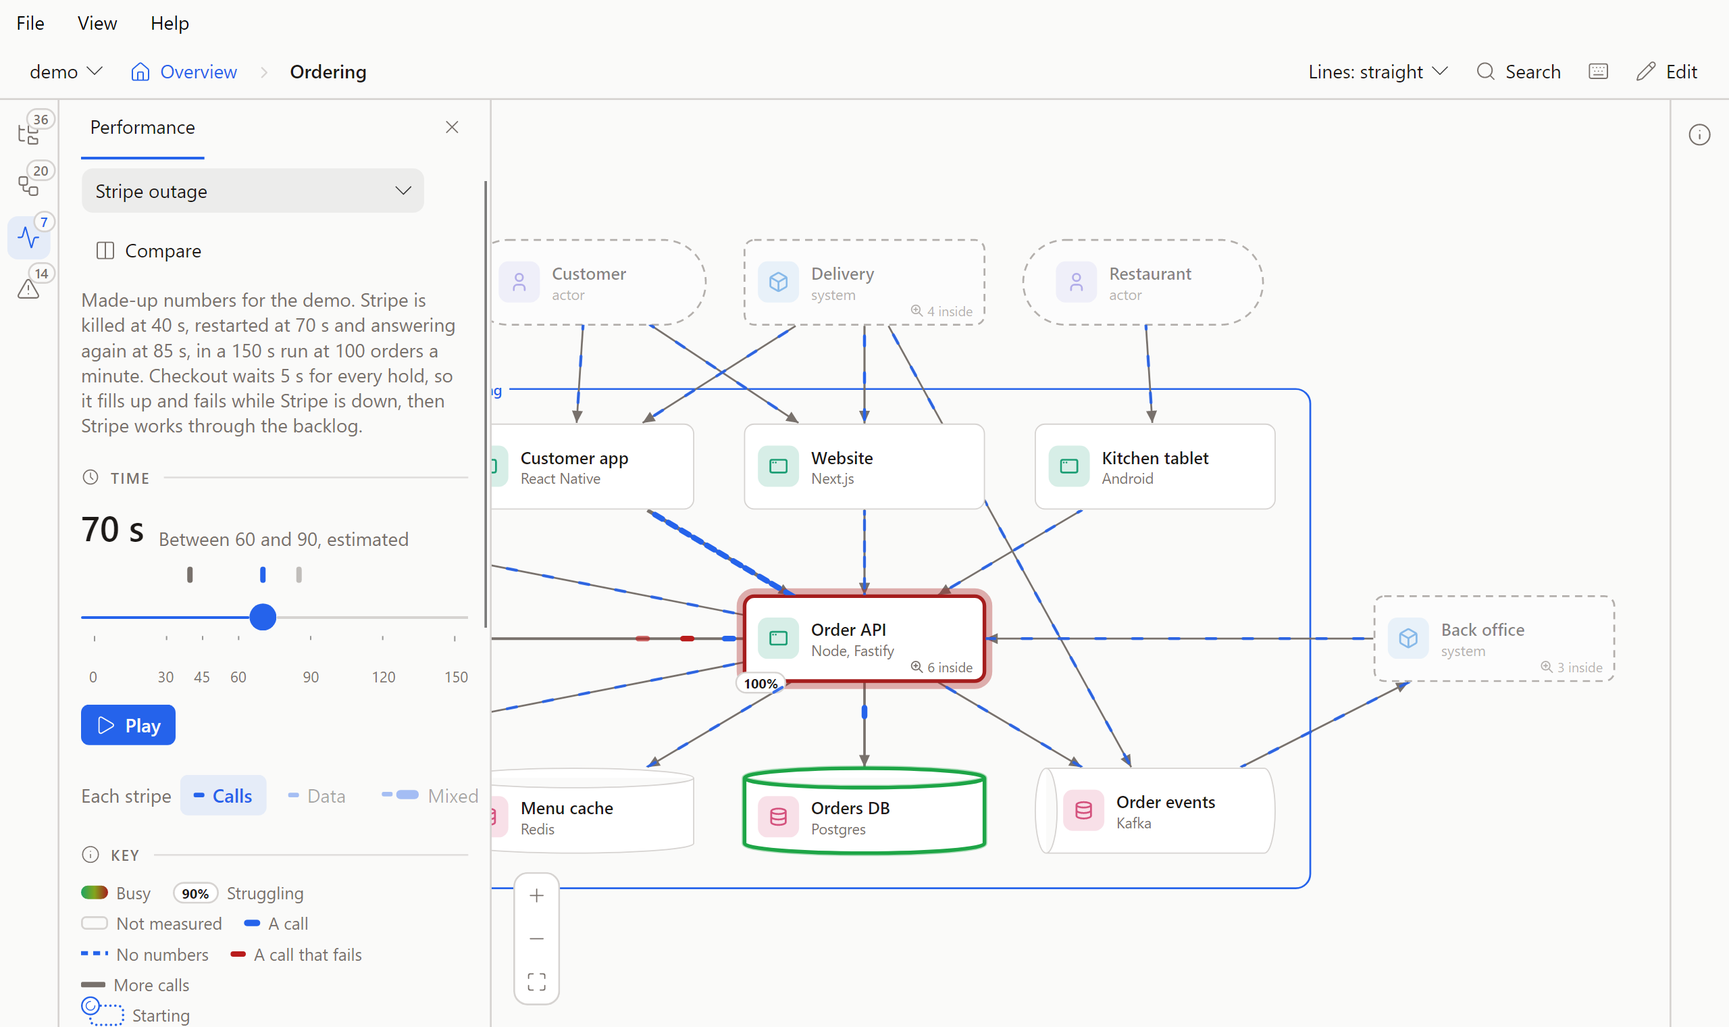
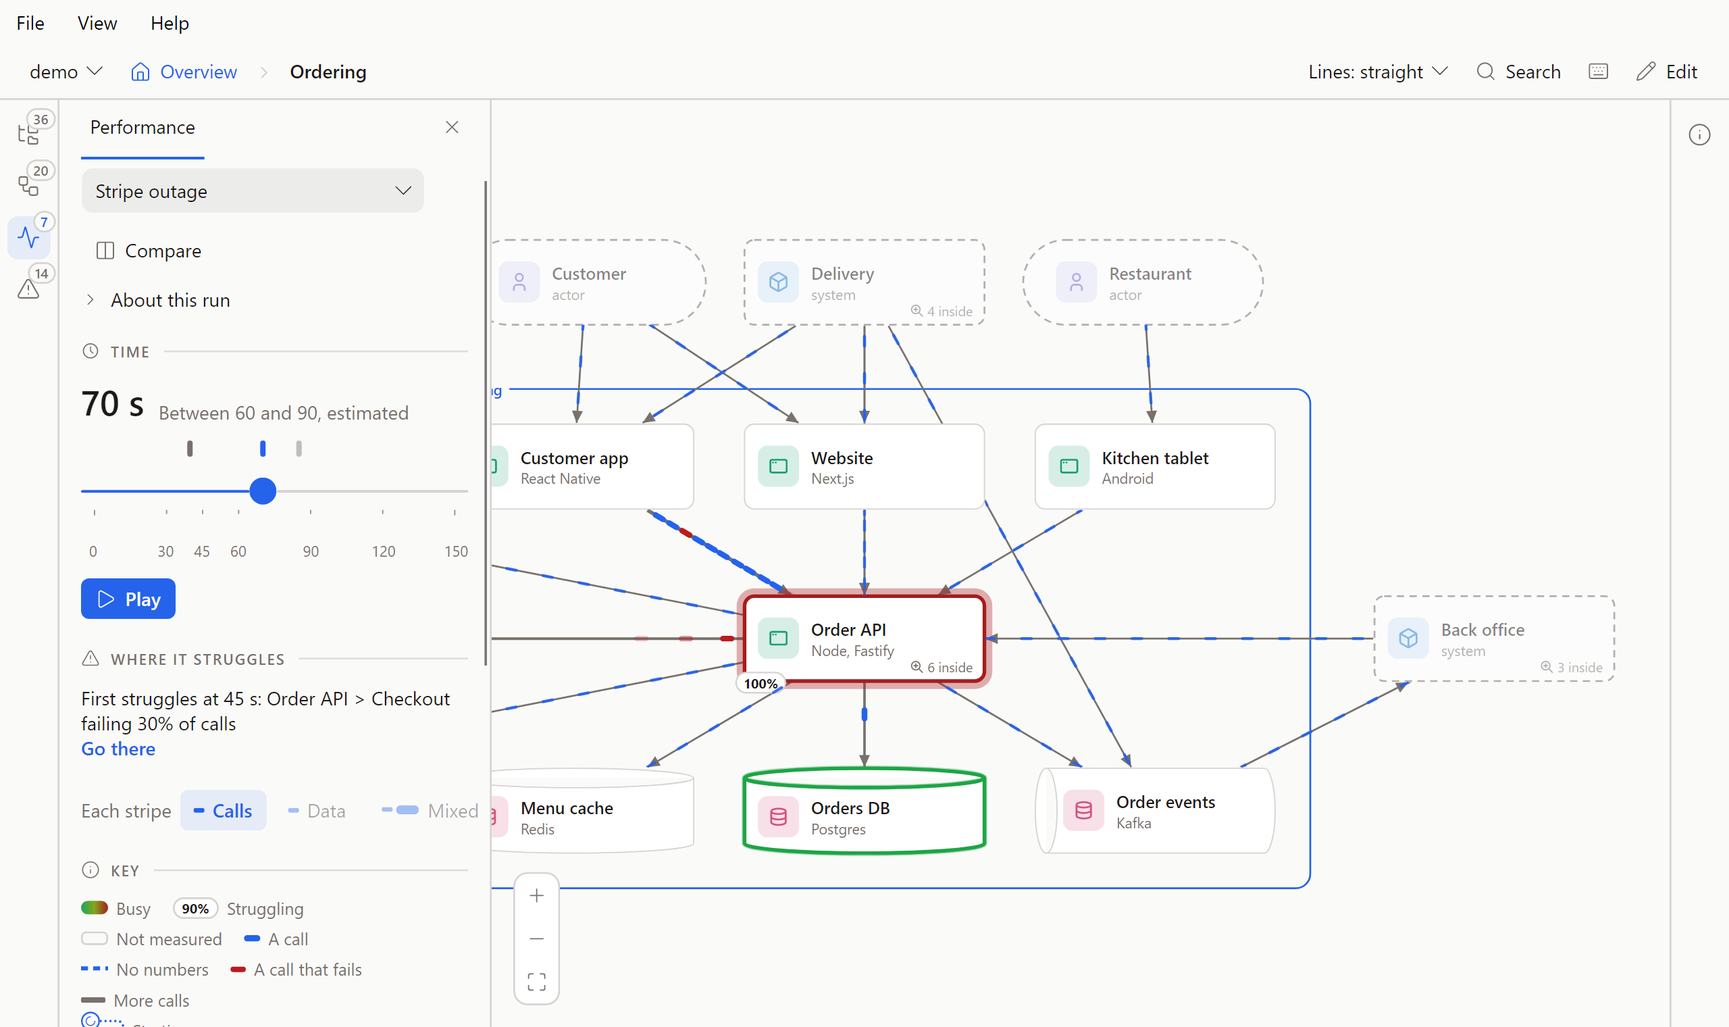
fix(perf): the first-struggles sentence stays in view: load, sentence, Each stripe, key, then the chart
Both readers order the tab as run and About, Load, Where it struggles (sentence and Go there), Each stripe, Key, chart, Events, Selected. A run's About note folds under About this run over 200 characters, and each source's Ramp sits on its name row. Tests, docs and the three desktop pictures follow.

diff --git a/ui/src/Performance.tsx b/ui/src/Performance.tsx
@@ -17,7 +17,7 @@ import { Dropdown } from './Dropdown.tsx'
 import { Activity, Alert, Bolt, ChevronRight, Clock, Columns, Info, Link, Pause, Play, Plus } from './icons.tsx'
 import { linkedRuns } from './compare.ts'
 import {
-  ABOUT_FOLDS_OVER, activeSeries, boxAt, boxAtLevel, boxMarks, boxSeries, boxSeriesIn, BOX_KEYS, bracketOf, chartRow, chartSubject, cursorX, dialTicks, dialTop, floorOf, eventFractions, eventRows, failureMarks, lineMarks, fmtLoad, gridOf, heldText, isTested, isTime, levelLabels, levelX,
+  RUN_ABOUT_FOLDS_OVER, activeSeries, boxAt, boxAtLevel, boxMarks, boxSeries, boxSeriesIn, BOX_KEYS, bracketOf, chartRow, chartSubject, cursorX, dialTicks, dialTop, floorOf, eventFractions, eventRows, failureMarks, lineMarks, fmtLoad, gridOf, heldText, isTested, isTime, levelLabels, levelX,
   lineAt, lineAtLevel, lineSeries, lineSeriesIn, LINE_KEYS, loadAt, loadNote, METRICS, modeLabel, openingPositions, overText, pathOf, posAt, scaleOf, settingOf, slideDial, slidePos, sliderRange, sliderValue, sourceCss, speakLoad, tickLabels, top, xAt,
 } from './perfview.ts'
 import type { Area } from './perfview.ts'
@@ -348,7 +348,7 @@ export function PerfBody({ model, view, runs, runProblems, runId, positions, act
         ? <Dropdown label="Run" value={runId} options={ids.map(id => [id, `${runs[id].name}${linked.has(id) ? ' (Linked)' : ''}`])} onChange={onRun} />
         : <h2>{run.name}</h2>}
       {compare && <RunActions compare={compare} linked={linked.has(runId)} />}
-      {run.about && (run.about.length > ABOUT_FOLDS_OVER
+      {run.about && (run.about.length > RUN_ABOUT_FOLDS_OVER
         ? <details className="about"><summary><ChevronRight size={14} />About this run</summary><p>{run.about}</p></details>
         : <p className="about">{run.about}</p>)}
       {label !== undefined && <p className="modelabel">{label}</p>}
@@ -363,11 +363,13 @@ export function PerfBody({ model, view, runs, runProblems, runId, positions, act
             const running = ramping && here
             return (
               <div key={d.id} className={here ? 'dial active' : 'dial'} style={srcStyle(d.color)}>
-                <div className="dialname"><span className="sw call" aria-hidden="true" /><span>{d.name}</span></div>
+                <div className="dialname">
+                  <span className="sw call" aria-hidden="true" /><span>{d.name}</span>
+                  {!still && <button className="primary small" aria-pressed={running} aria-label={`${running ? 'Pause' : 'Ramp'} ${d.name}`} onClick={() => onRamp(i)}>{running ? <><Pause size={16} />Pause</> : <><Play size={16} />Ramp</>}</button>}
+                </div>
                 <div className="loadnum">
                   <strong>{fmtLoad(dialLoad, d.unit)}</strong>
                   <span className="muted">{tested ? 'Tested' : `Between ${from} and ${to}, estimated`}</span>
-                  {!still && <button className="primary small" aria-pressed={running} aria-label={`${running ? 'Pause' : 'Ramp'} ${d.name}`} onClick={() => onRamp(i)}>{running ? <><Pause size={16} />Pause</> : <><Play size={16} />Ramp</>}</button>}
                 </div>
                 <div className="slide">
                   <RangeSlider min={floorOf(d)} max={dialTop(d)} value={at} label={d.name} text={speakLoad(fmtLoad(dialLoad, d.unit), tested ? 'Tested' : `Between ${from} and ${to}, estimated`)} onTouch={() => onActive(i)} onMove={v => onSlide(i, slideDial(d, v))} />
@@ -401,6 +403,11 @@ export function PerfBody({ model, view, runs, runProblems, runId, positions, act
             </div>
           </>
         )}
+      <Section icon={Alert} title="Where it struggles" />
+      {struggle
+        ? <p>{kneeTextOf(runs, runId, struggle, place)} <button className="link" title={goText(runs, runId, struggle)} aria-label={goText(runs, runId, struggle)} onClick={() => onPlace(openingPositions(dials, struggle))}>Go there</button></p>
+        : <p className="muted">It never struggled in the tested range.</p>}
+
       {onMeasure && (
         <div className="measure" role="group" aria-label="Each stripe">
           <span className="muted" aria-hidden="true">Each stripe</span>
@@ -411,6 +418,10 @@ export function PerfBody({ model, view, runs, runProblems, runId, positions, act
       )}
 
       {keySection}
+
+      {multi ? <Along dials={dials} positions={positions} active={dial} /> : null}
+      {multi ? <StripAlong levels={along!} dial={dials[dial]} pos={positions[dial] ?? 0} subject={subject} /> : <Strip run={run} pos={pos} kneeAt={struggle?.index} subject={subject} />}
+
 
       {rows.length > 0 && !multi && (
         <>
@@ -428,13 +439,6 @@ export function PerfBody({ model, view, runs, runProblems, runId, positions, act
           </ul>
         </>
       )}
-
-      <Section icon={Alert} title="Where it struggles" />
-      {struggle
-        ? <p>{kneeTextOf(runs, runId, struggle, place)} <button className="link" title={goText(runs, runId, struggle)} aria-label={goText(runs, runId, struggle)} onClick={() => onPlace(openingPositions(dials, struggle))}>Go there</button></p>
-        : <p className="muted">It never struggled in the tested range.</p>}
-      {multi ? <Along dials={dials} positions={positions} active={dial} /> : null}
-      {multi ? <StripAlong levels={along!} dial={dials[dial]} pos={positions[dial] ?? 0} subject={subject} /> : <Strip run={run} pos={pos} kneeAt={struggle?.index} subject={subject} />}
 
       <Section icon={Info} title={selected ? selected.title : 'Selected'} />
       {selected === undefined && <p className="muted">Click a shape or a line.</p>}

diff --git a/ui/src/style.css b/ui/src/style.css
@@ -934,11 +934,11 @@ kbd { padding: 1px 6px; border: 1px solid var(--line); border-bottom-width: 2px;
 .perf .modelabel { align-self: flex-start; padding: 2px 10px; border: 1px solid var(--line); border-radius: 999px; color: var(--muted); font-size: 12.5px; }
 .dial { display: flex; flex-direction: column; gap: 6px; padding: 8px 10px 4px 12px; border-left: 3px solid transparent; border-radius: 4px; }
 .dial.active { border-left-color: var(--src, var(--accent)); background: color-mix(in srgb, var(--fg) 4%, transparent); }
-.dial.active .muted { color: color-mix(in srgb, var(--muted) 82%, var(--fg)); } /* on the tint, the plain muted grey falls just under 4.5 to 1 */
+.dial.active .muted, .dial.active .ticks span { color: color-mix(in srgb, var(--muted) 82%, var(--fg)); } /* on the tint, the plain muted grey falls just under 4.5 to 1 */
 .dialname { display: flex; align-items: center; gap: 8px; font-weight: 600; }
 .dial .loadnum strong { font-size: 22px; }
 .dial .slide { padding-bottom: 18px; }
-.loadnum button.primary { align-self: center; margin-left: auto; padding: 3px 10px; } /* Ramp sits on the load's row, so the key stays in view */
+.loadnum button.primary, .dialname button.primary { align-self: center; margin-left: auto; padding: 3px 10px; } /* Ramp sits on the load's row, so the key stays in view */
 .perf .along { display: flex; align-items: center; flex-wrap: wrap; gap: 4px 10px; }
 .perf .along .muted { font-size: 12.5px; }
 .perf .over { color: var(--danger); font-weight: 600; }

diff --git a/browser-tests/page.spec.ts b/browser-tests/page.spec.ts
@@ -175,6 +175,9 @@ test.describe('the performance tab on an 880 px window', () => {
     const key = page.locator('.perf .keyrow').first()
     const box = await key.boundingBox()
     expect(box!.y + box!.height).toBeLessThanOrEqual(880)
+    const sentence = await page.getByText(/^First struggles at 900 orders\/min/).boundingBox()
+    expect(sentence!.y + sentence!.height).toBeLessThan(box!.y) // the sentence comes before the key and stays in view
+    expect((await page.locator('.stripfig').boundingBox())!.y).toBeGreaterThan(box!.y) // and the chart after it
     await expect(page.getByRole('group', { name: 'Each stripe' })).toBeVisible()
     await expect(page.locator('.perf .keyrow').first().getByText('Struggling')).toBeVisible() // Dispatch is past the struggle mark: its number is on the canvas and in the key
     await expect(page.locator('.strain-pct').first()).toHaveText(/^\d+%$/)

diff --git a/ui/src/perfview.ts b/ui/src/perfview.ts
@@ -14,6 +14,9 @@ export { isTime }
 /** A run's or an analysis's About note is shown as it is until it is long enough to be worth folding. The same number as `PerfView.AboutFoldsOver` in the desktop app. */
 export const ABOUT_FOLDS_OVER = 400
 
+/** A run's About note folds sooner: the Performance tab keeps the load, where it first struggles and the key in view together, and the note is one tap away. The same number as `PerfView.RunAboutFoldsOver`. */
+export const RUN_ABOUT_FOLDS_OVER = 200
+
 /** The maths and the words of the Performance tab, kept apart from the drawing so the node tests can run them. No DOM in here. */
 
 /** How long Ramp takes to sweep from the first tested level to the last, whatever the number of levels. */

diff --git a/desktop/Flowy.App/PerfPanel.cs b/desktop/Flowy.App/PerfPanel.cs
@@ -407,7 +407,7 @@ internal sealed class PerfPanel : StackPanel
         };
         _ramp.Classes.Add("tool");
         _ramp.Classes.Add("primary");
-        _ramp.HorizontalAlignment = HorizontalAlignment.Left; // alone on its row now, so it keeps its own width
+        _ramp.HorizontalAlignment = HorizontalAlignment.Left; // alone on its row, so it keeps its own width
         _ramp.Click += (_, _) =>
         {
             RampClicked?.Invoke();
@@ -640,9 +640,6 @@ internal sealed class PerfPanel : StackPanel
         else Children.Add(_slider);
         Children.Add(new TickLabels(PerfView.TickLabels(run)));
         if (!still) Children.Add(_ramp);
-        if (!_pane) Children.Add(MeasureRow());
-        AddKey();
-        if (run.Events.Count > 0) Children.Add(BuildEvents(model, run));
 
         Children.Add(Chrome.Section(Icons.Alert, "Where it struggles"));
         if (knee is null) Children.Add(Muted("It never struggled in the tested range."));
@@ -661,6 +658,8 @@ internal sealed class PerfPanel : StackPanel
             };
             Children.Add(new WrapPanel { Children = { sentence, go } });
         }
+        if (!_pane) Children.Add(MeasureRow());
+        AddKey();
         var subject = PerfView.ChartSubject(run.Entry, id => NameOf(model, id));
         Children.Add(Muted(subject, 12.5));
         _strip = new LatencyStrip(run, knee?.Index, pos, subject);
@@ -670,6 +669,7 @@ internal sealed class PerfPanel : StackPanel
             (KeyRow.Mark("p95"), "Slowest 5%"),
             knee is null ? null : (KeyRow.Dashes(), "First struggles"),
             (KeyRow.Mark("now"), "Now")));
+        if (run.Events.Count > 0) Children.Add(BuildEvents(model, run));
 
         BuildSelection(model, view, run, selection);
 
@@ -705,7 +705,7 @@ internal sealed class PerfPanel : StackPanel
         {
             var note = Muted(about);
             // In a pane of a comparison the load and the slider come first: the About note is always folded there, so it does not push them out of a short pane.
-            if (about.Length <= PerfView.AboutFoldsOver && !_pane)
+            if (about.Length <= PerfView.RunAboutFoldsOver && !_pane)
             {
                 Children.Add(note);
                 return;
@@ -1094,8 +1094,6 @@ internal sealed class PerfPanel : StackPanel
         }
         Children.Add(Chrome.Section(Icons.Activity, "Load"));
         for (var i = 0; i < dials.Items.Count; i++) Children.Add(BuildDial(i, dials.Items[i], still));
-        if (!_pane) Children.Add(MeasureRow());
-        AddKey();
 
         Children.Add(Chrome.Section(Icons.Alert, "Where it struggles"));
         var knee = Perf.KneeOf(runs, runId);
@@ -1115,6 +1113,8 @@ internal sealed class PerfPanel : StackPanel
             };
             Children.Add(new WrapPanel { Children = { sentence, go } });
         }
+        if (!_pane) Children.Add(MeasureRow());
+        AddKey();
         Children.Add(AlongLine());
         var along = AlongSeries(runs, runId, dials.Items);
         var subject = PerfView.ChartSubject(null, id => NameOf(model, id));
@@ -1156,8 +1156,16 @@ internal sealed class PerfPanel : StackPanel
         var heading = new StackPanel { Orientation = Orientation.Horizontal, Spacing = 8, Children = { dot, new TextBlock { Text = dial.Name, FontWeight = FontWeight.SemiBold } } };
         var load = new Grid { ColumnDefinitions = [new ColumnDefinition(GridLength.Auto), new ColumnDefinition(GridLength.Star)], ColumnSpacing = 10, Children = { number, note } };
         Grid.SetColumn(note, 1);
-        var inside = new StackPanel { Spacing = 6, Children = { heading, load, slider, new TickLabels(PerfView.DialTicks(dial)) } };
-        if (!still) inside.Children.Add(ramp);
+        // Ramp sits on the row of the source's name, which has room, so two sources and where they first struggle stay in view together.
+        ramp.HorizontalAlignment = HorizontalAlignment.Right;
+        ramp.VerticalAlignment = VerticalAlignment.Center;
+        var top = new Grid { ColumnDefinitions = [new ColumnDefinition(GridLength.Star), new ColumnDefinition(GridLength.Auto)], Children = { heading } };
+        if (!still)
+        {
+            top.Children.Add(ramp);
+            Grid.SetColumn(ramp, 1);
+        }
+        var inside = new StackPanel { Spacing = 6, Children = { top, load, slider, new TickLabels(PerfView.DialTicks(dial)) } };
         var block = new Border { Child = inside };
         block.Classes.Add("dial");
         _dialViews.Add(new DialView(dial, block, dot, number, note, slider, ramp));

diff --git a/desktop/Flowy.App.Tests/PerfPanelTests.cs b/desktop/Flowy.App.Tests/PerfPanelTests.cs
@@ -410,4 +410,47 @@ public class PerfPanelTests
         Assert.Contains("Struggling", KeyOf(panel));
         Assert.Contains("pct", panel.GetVisualDescendants().OfType<Border>().Where(b => b.Classes.Contains("sw")).SelectMany(b => b.Classes));
     }
+
+    [AvaloniaFact]
+    public void The_panel_runs_from_the_load_to_where_it_struggles_then_the_stripe_choice_and_the_key_then_the_chart()
+    {
+        var (panel, folder) = Open();
+        Show(panel, folder, "ramp", 3);
+        var rows = panel.Children.ToList();
+        int At(Func<Control, bool> match) => rows.FindIndex(c => match(c) || c.GetVisualDescendants().OfType<Control>().Any(match));
+        var load = At(c => ReferenceEquals(c, panel.Slider));
+        var struggles = At(c => c is TextBlock t && t.Text?.StartsWith("First struggles") == true);
+        var stripe = At(c => Avalonia.Automation.AutomationProperties.GetName(c) == "Each stripe");
+        var key = At(c => c is TextBlock t && t.Text == "A call");
+        var chart = At(c => c is LatencyStrip);
+        Assert.InRange(load, 0, struggles - 1);
+        Assert.InRange(struggles, load + 1, stripe - 1);
+        Assert.InRange(stripe, struggles + 1, key - 1);
+        Assert.InRange(key, stripe + 1, chart - 1);
+    }
+
+    [AvaloniaFact]
+    public void A_long_About_note_folds_under_About_this_run_so_the_load_the_sentence_and_the_key_stay_in_view()
+    {
+        var (panel, folder) = Open();
+        Show(panel, folder, "ramp", 3);
+        var short_ = folder.Runs!["ramp"].About!;
+        Assert.True(short_.Length <= PerfView.RunAboutFoldsOver);
+        Assert.Contains(short_, Text(panel)); // a short note is shown as it is
+        Assert.DoesNotContain("About this run", Text(panel));
+
+        using var temp = new TempFolder();
+        File.Copy(Path.Combine(Shop, "model.yaml"), Path.Combine(temp.Path, "model.yaml"));
+        Directory.CreateDirectory(Path.Combine(temp.Path, "perf"));
+        File.WriteAllText(Path.Combine(temp.Path, "perf", "long.yaml"), string.Join('\n', "name: Long", $"about: \"{new string('x', PerfView.RunAboutFoldsOver + 1)}\"", "unit: req/s", "levels:", "  - load: 1", "  - load: 2", ""));
+        var longFolder = FolderLoader.Load(temp.Path);
+        var longPanel = new PerfPanel();
+        new Window { Width = 400, Height = 900, Content = new ScrollViewer { Content = longPanel } }.Show();
+        Dispatcher.UIThread.RunJobs();
+        longPanel.Show(new PerfPanelModel(longFolder.Model, "shop", longFolder.Runs!, longFolder.RunProblems!, "long", 0, false, false, null));
+        var words = Text(longPanel);
+        Assert.Contains("About this run", words);
+        var note = longPanel.GetVisualDescendants().OfType<TextBlock>().Single(b => b.Text == new string('x', PerfView.RunAboutFoldsOver + 1));
+        Assert.False(note.IsVisible); // folded until About this run is opened
+    }
 }

diff --git a/desktop/Flowy.Core/PerfView.cs b/desktop/Flowy.Core/PerfView.cs
@@ -161,6 +161,9 @@ public static class PerfView
     /// <summary>A run's or an analysis's About note is shown as it is until it is longer than this many characters, then it folds. The same number as `ABOUT_FOLDS_OVER` in ui/src/perfview.ts.</summary>
     public const int AboutFoldsOver = 400;
 
+    /// <summary>A run's About note folds sooner: the Performance panel keeps the load, where it first struggles and the key in view together, and the note is one tap away. The same number as `RUN_ABOUT_FOLDS_OVER` in ui/src/perfview.ts.</summary>
+    public const int RunAboutFoldsOver = 200;
+
     /// <summary>A load with its unit: "200 req/s".</summary>
     public static string FmtLoad(double load, string unit) => $"{Trim(load, load < 10 ? 1 : 0)} {unit}";
 

diff --git a/docs/maintaining.md b/docs/maintaining.md
@@ -212,7 +212,7 @@ Before merging a change to the app, look at what it could affect, in a real wind
       and Data and Mixed are greyed out with the reason in their tooltip. A run with sizes opens on Mixed: the stripes count the calls and are as big as their calls. Data counts the data instead and turns the
       Key's "More calls" into "More data" and the scale into KB/s. A line with no numbers has blue line-highlight stripes that speed up as you drag the slider up ("No numbers" in the Key);
       under the chart a key draws a blue line (Expected call), an amber one (Slowest 5%), red dashes (First
-      struggles) and a solid line (Now), the chart says "Calls into" the run's entry shape and "Time (log)" on its left edge, and the Key under the controls draws each mark on the canvas
+      struggles) and a solid line (Now), the chart says "Calls into" the run's entry shape and "Time (log)" on its left edge, and the Key (under the sentence about where it first struggles, and Each stripe) draws each mark on the canvas
       now (Busy, Struggling, Waiting, Not measured, a call, a failing call, More calls) with no sentences, all of it in view in an 880 px window; a shape past 85% busy wears its percentage and Waiting is a square badge; Esc closes the panel, and the Details button swaps Details back in. With animation effects off there
       are no dots and no Ramp button, and the outlines, thickness, numbers and strip still show. Light and dark both read.
 - [ ] `dotnet run --project desktop/Flowy.App -- docs/demo --view ordering --tab failures --select stripe-timeout`: the left rail has a Failures button under
@@ -369,7 +369,7 @@ Performance (`npm run build:ui && node src/cli.ts --dir perf-lab/flowy`):
       req/s on the ramp), with `#shop/perf/ramp/4` in the address. In Shop lab, shapes that carry numbers are outlined from green to red
       along their own outline (SQLite's cylinder, Upload folder's folder, the boxes of Web API and the worker), Order queue carries a
       number but no colour, busy lines are thicker and carry more dots, and Catalog cache (a hexagon with no numbers) and Payment gateway
-      stay plain. Under the chart, a blue line reads Expected call, an amber one Slowest 5%, red dashes First struggles and a solid line Now; the Key under the controls
+      stay plain. Under the chart, a blue line reads Expected call, an amber one Slowest 5%, red dashes First struggles and a solid line Now; the Key (under the first-struggles sentence and Each stripe)
       draws each mark on the canvas now. ← → move between loads, Home and End jump (Home gives `#shop/perf/ramp/0`), and the address follows. Esc closes the
       panel; Back closes it too if you opened it with T (after Esc, Back opens it again). Click a shape and its Details open on the right, beside
       the panel, and the diagram still fits; Esc closes whichever is showing.

diff --git a/docs/guide/performance.md b/docs/guide/performance.md
@@ -46,11 +46,11 @@ with a small curve of each across all of them. A shape that holds others takes t
 you see which system is struggling and zoom in to find where. The tab opens on the load where things first struggle, if anything
 does, and **Go there** gets back to it. The sentence names the shape the way the canvas draws it, so a part inside Dispatch reads "Dispatch > ETA", and the tooltip of **Go there** says which load it goes to.
 
-**Marks on the canvas.** The **Key** sits right under the controls, so it is in view with them, and draws only the marks on the canvas now. A shape's outline runs from green to red as it fills up (**Busy**).
+**Marks on the canvas.** The tab runs from the controls down: the load, **Where it struggles** (the sentence and **Go there**), **Each stripe**, the **Key**, then the chart and the numbers of what is picked. The key draws only the marks on the canvas now. A run's About note folds under "About this run" once it is over 200 characters, so the load, the sentence and the key stay in view together. A shape's outline runs from green to red as it fills up (**Busy**).
 Once a shape is past the point where a run counts as struggling (85% busy) it also wears its percentage, so the fact does not rest on colour alone (**Struggling**); shapes below that carry nothing. A square badge with a number is
 **Waiting**: how many calls are queued. It is square so it is not taken for the round badge of a failure mode. A plain outline is **Not measured**.
 
-**The chart.** Under **Where it struggles** the chart says whose calls it shows (the shape the run's `entry` names, "Calls into Customer app", else "All calls"). Its left edge is time on a log scale ("Time (log)"), so 10 ms, 100 ms and 1 s are evenly
+**The chart.** Under the key, the chart says whose calls it shows (the shape the run's `entry` names, "Calls into Customer app", else "All calls"). Its left edge is time on a log scale ("Time (log)"), so 10 ms, 100 ms and 1 s are evenly
 spaced. A blue line is the **Expected call**, an amber one the **Slowest 5%**, red dashes **First struggles**, and the solid grey line is **Now**, the load on the slider. For a screen reader the chart is a list: each tested load with its expected call and its slowest 5%.
 
 **Calls, Data and Mixed.** A call is drawn as a small stripe that runs along its line and sticks out to either side of it. **Each stripe** sets what one stripe stands for, and the tab has three choices, each drawn with its stripe. **Calls** draws one
